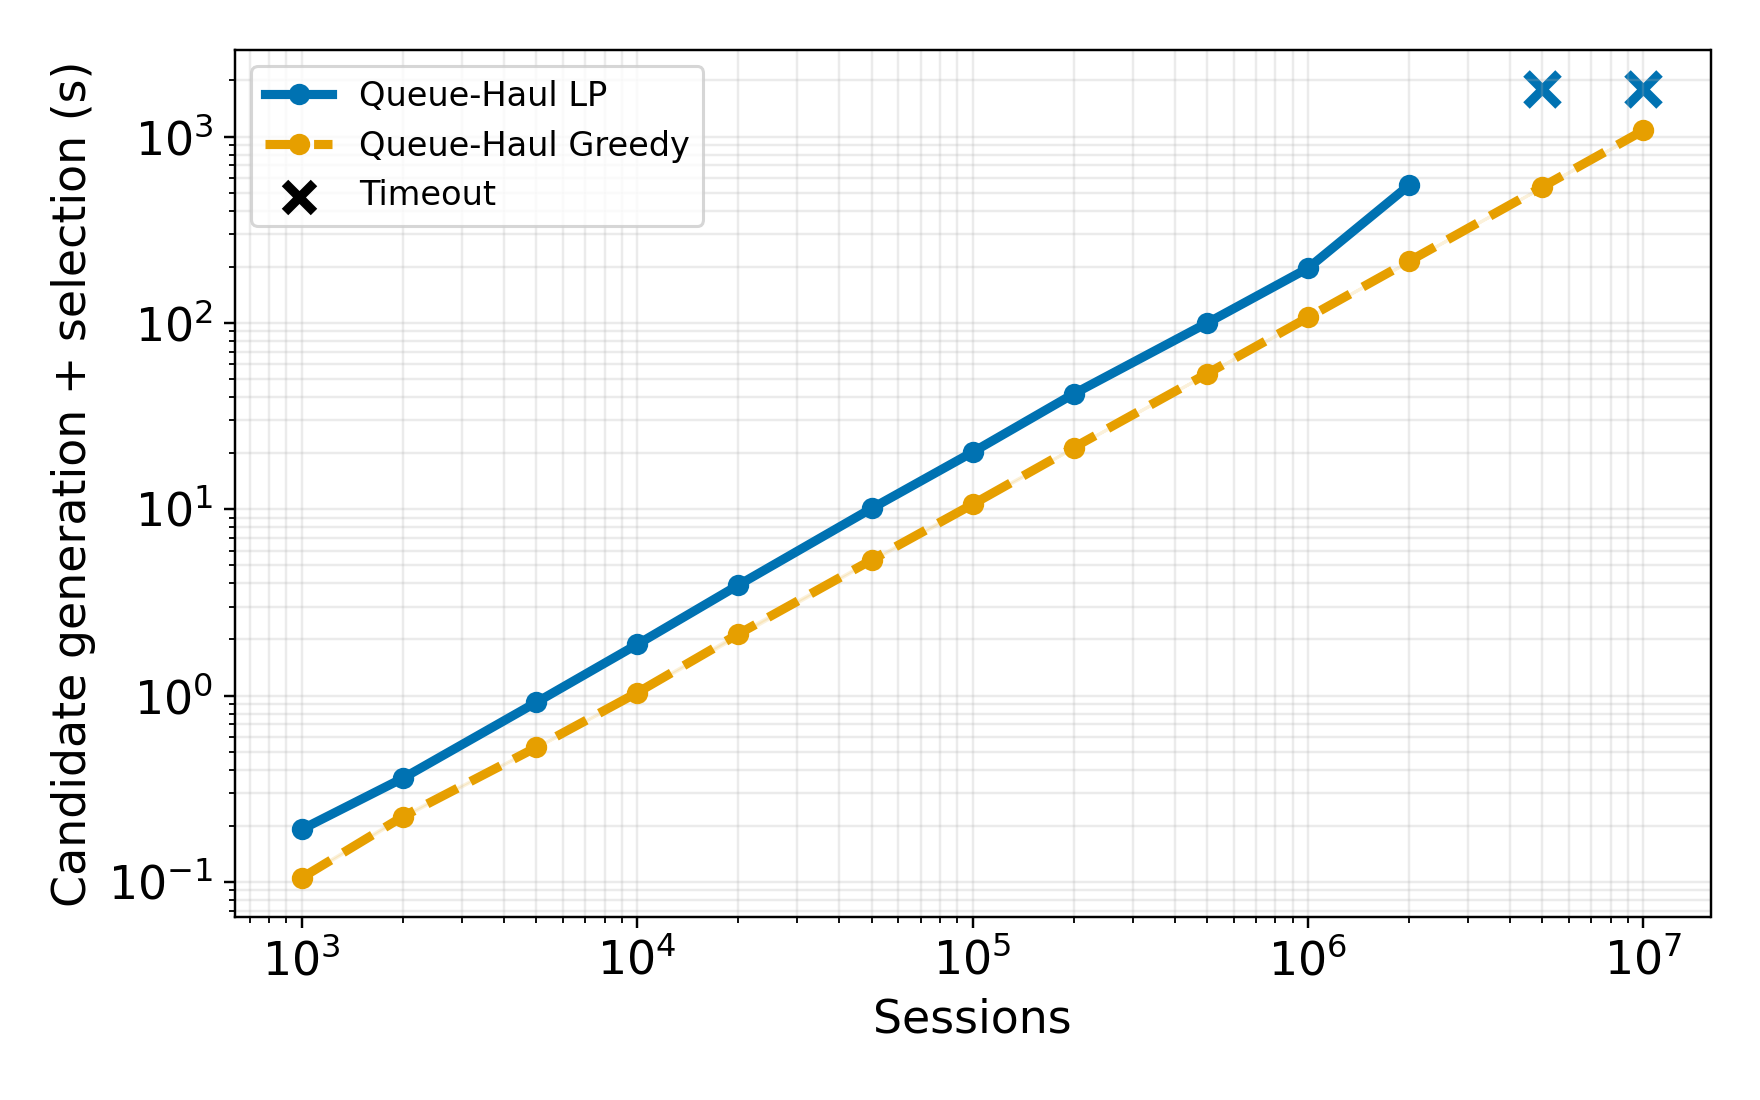
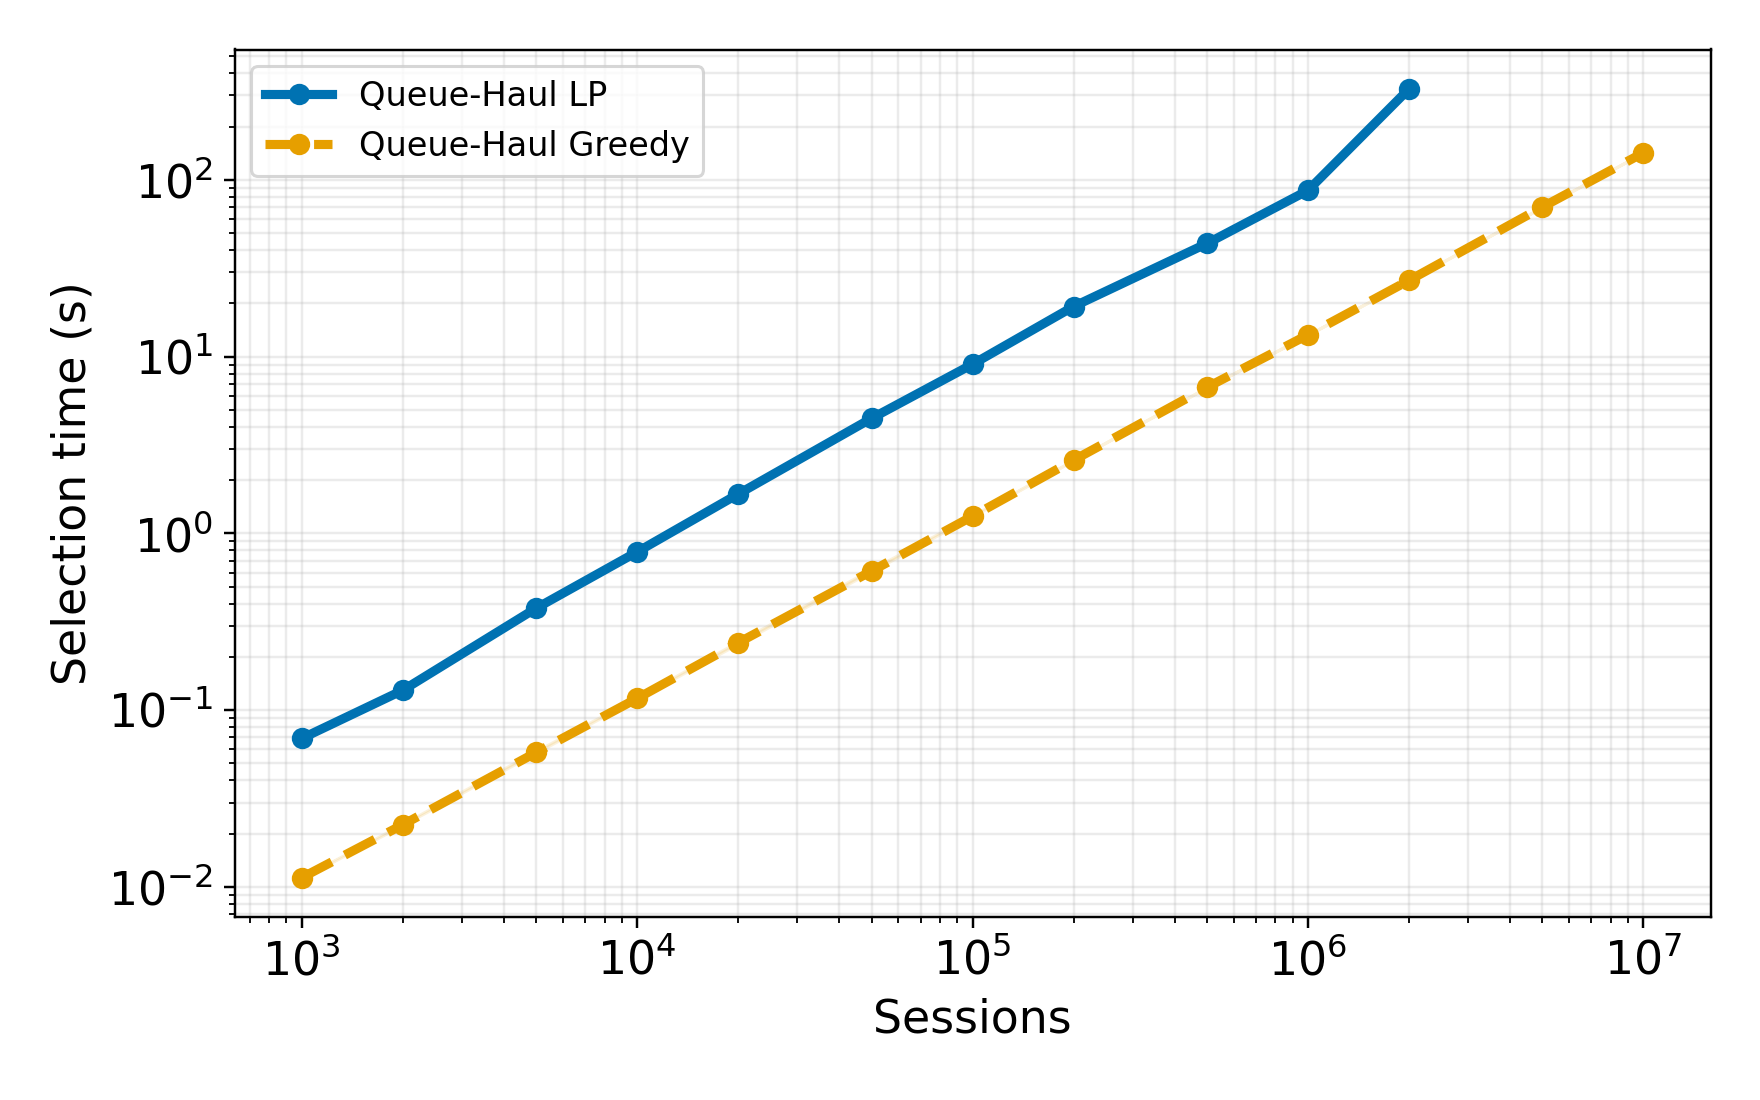
Plot planner selection scaling only

diff --git a/agent-migrate/queue-haul/planner_scaling_campaign.py b/agent-migrate/queue-haul/planner_scaling_campaign.py
@@ -304,6 +304,7 @@ def _identity(args) -> dict:
         "target_fraction_of_removable_power": TARGET_FRACTION,
         "lp_integral_recovery": False,
         "timed_region": "candidate generation plus selection; excludes packing and DES",
+        "plotted_metric": "selection_s for completed cells only",
     }
 
 
@@ -358,8 +359,9 @@ def plot(rows, output: Path) -> None:
     plot_style.apply()
     fig, axis = plt.subplots(figsize=plot_style.FIGSIZE)
     for solver, policy in (("lp", "queue_haul"), ("greedy", "greedy")):
-        ok = [row for row in rows if row["solver"] == solver and row["status"] == "ok"]
-        grouped = {sessions: [row["solve_s"] for row in ok
+        ok = [row for row in rows if row["solver"] == solver
+              and row["status"] == "ok"]
+        grouped = {sessions: [row["selection_s"] for row in ok
                               if row["sessions"] == sessions]
                    for sessions in sorted({row["sessions"] for row in ok})}
         style = plot_style.policy_style(policy)
@@ -371,29 +373,8 @@ def plot(rows, output: Path) -> None:
         if low != high:
             axis.fill_between(x, low, high, color=plot_style.POLICY_COLORS[policy],
                               alpha=.14)
-        for status, marker in plot_style.SCALING_OUTCOME_MARKERS.items():
-            failed = [row for row in rows if row["solver"] == solver
-                      and row["status"] == status]
-            if failed:
-                if status == "timeout":
-                    axis.scatter(
-                        [row["sessions"] for row in failed],
-                        [row["time_limit_s"] for row in failed], marker=marker,
-                        s=110, color=plot_style.POLICY_COLORS[policy],
-                    )
-                else:
-                    axis.scatter(
-                        [row["sessions"] for row in failed], [.97] * len(failed),
-                        transform=axis.get_xaxis_transform(), marker=marker,
-                        s=110, color=plot_style.POLICY_COLORS[policy], clip_on=False,
-                    )
-    present = {row["status"] for row in rows}
-    for status, name in plot_style.SCALING_OUTCOME_NAMES.items():
-        if status in present:
-            axis.scatter([], [], marker=plot_style.SCALING_OUTCOME_MARKERS[status],
-                         s=90, color="black", label=name)
     axis.set(xscale="log", yscale="log", xlabel="Sessions",
-             ylabel="Candidate generation + selection (s)")
+             ylabel="Selection time (s)")
     axis.grid(True, which="both", alpha=.25)
     axis.legend()
     fig.tight_layout()
@@ -435,7 +416,7 @@ def main() -> None:
     else:
         with args.input.open() as stream:
             rows = list(csv.DictReader(stream))
-        numeric = {"sessions", "solve_s", "time_limit_s"}
+        numeric = {"sessions", "selection_s"}
         plot([{key: float(value) if key in numeric and value else value
                for key, value in row.items()} for row in rows], args.output)
 

diff --git a/agent-migrate/queue-haul/tests/test_planner_scaling_campaign.py b/agent-migrate/queue-haul/tests/test_planner_scaling_campaign.py
@@ -22,16 +22,17 @@ def test_small_cells_are_paired_and_reach_the_target():
     assert "candidate_slots" not in greedy | lp
 
 
-def test_plot_writes_both_formats_with_censored_markers(tmp_path, monkeypatch):
+def test_plot_writes_selection_only_in_both_formats(tmp_path, monkeypatch):
     applied = []
     monkeypatch.setattr(plot_style, "apply", lambda: applied.append(True))
     rows = [
-        {"solver": "greedy", "sessions": 1_000, "status": "ok", "solve_s": .1},
-        {"solver": "greedy", "sessions": 10_000, "status": "ok", "solve_s": 1},
-        {"solver": "lp", "sessions": 1_000, "status": "ok", "solve_s": 1},
+        {"solver": "greedy", "sessions": 1_000, "status": "ok",
+         "selection_s": .1},
+        {"solver": "greedy", "sessions": 10_000, "status": "ok",
+         "selection_s": 1},
+        {"solver": "lp", "sessions": 1_000, "status": "ok", "selection_s": 1},
         {"solver": "lp", "sessions": 10_000, "status": "timeout",
          "time_limit_s": 10},
-        {"solver": "lp", "sessions": 100_000, "status": "oom"},
     ]
 
     scaling.plot(rows, tmp_path / "scaling")

diff --git a/agent-migrate/queue-haul/tests/test_plot_style.py b/agent-migrate/queue-haul/tests/test_plot_style.py
@@ -61,11 +61,6 @@ def test_power_validation_methods_have_unique_markers():
     assert len(set(plot_style.POWER_VALIDATION_MARKERS.values())) == 5
 
 
-def test_scaling_outcomes_have_distinct_canonical_markers():
-    assert set(plot_style.SCALING_OUTCOME_NAMES) == {"timeout", "oom"}
-    assert len(set(plot_style.SCALING_OUTCOME_MARKERS.values())) == 2
-
-
 def test_power_families_have_shared_names_colors_and_markers():
     assert set(plot_style.POWER_FAMILY_NAMES) == {"idle", "sessions"}
     assert set(plot_style.POWER_FAMILY_NAMES) == set(plot_style.POWER_FAMILY_COLORS) \

diff --git a/agent-migrate/queue-haul/plot_style.py b/agent-migrate/queue-haul/plot_style.py
@@ -235,10 +235,6 @@ POWER_VALIDATION_COLORS = dict(zip(POWER_VALIDATION_METHODS, (
 )))
 POWER_VALIDATION_MARKERS = dict(zip(
     POWER_VALIDATION_METHODS, ("o", "s", "^", "D", "x")))
-SCALING_OUTCOME_NAMES = {
-    "timeout": "Timeout", "oom": "OOM / memory limit",
-}
-SCALING_OUTCOME_MARKERS = {"timeout": "x", "oom": "^"}
 
 
 def apply():

diff --git a/agent-migrate/queue-haul/README.md b/agent-migrate/queue-haul/README.md
@@ -1018,18 +1018,21 @@ constraints. Noisy bootstrap route draws
 are minimally projected to preserve natural bandwidth at or above the measured
 40%-route condition, and the projection rate is recorded.
 
-The same command writes `action_choice_oat.pdf`. Two paired one-at-a-time sweeps
-use 20 levels and 50 common workload/timing/power draws per level. The bandwidth
-sweep fixes per-destination prefill headroom at the midpoint of the measured
-7,680-token range; the prefill sweep fixes the shared route cap at the midpoint
-of the 1-Gbit/s-to-natural range. Stacked bands show Replay, KV-transfer, and
-not-moved session shares, while the black line shows plan-level attainment of
-the 67% source-power target by 30 seconds. Regional pipeline timing is
-interpolated between the measured endpoint fits, so the timing holdout remains
-hardware checked while the action distributions are modeled sensitivities.
+The same command writes `action_choice_oat_bandwidth.pdf`. Its 20-level
+bandwidth sweep uses 1,000 seeded packs of eight OpenHands sessions. Each pack
+samples templates without replacement and then samples one supported turn per
+template; that same pack is planned at every bandwidth. Calibration, source
+load (0.4), and per-destination prefill headroom are fixed, and the planner must
+meet the full 100% source-power target. Stacked bands show mean Replay,
+KV-transfer, and not-moved session shares; faint bands are whole-pack bootstrap
+95% intervals for the mean boundaries. `action_choice_oat_packs.csv` records
+every sampled pack and plan. Regional pipeline timing is interpolated between
+the measured endpoint fits, so these distributions are modeled workload
+sensitivities rather than hardware action observations.
 
 ```bash
 uv run python queue-haul/workload_adaptation_campaign.py
+uv run python queue-haul/workload_adaptation_campaign.py --oat-only
 ```
 
 The resulting 1,000 draws are a modeled calibration/workload sensitivity, not
@@ -1791,13 +1794,14 @@ uv run python planner_scaling_campaign.py run
 ```
 
 The pinned 24 GiB campaign in `outputs/planner-scaling-greedy-vs-lp/` records
-greedy/LP medians of 10.62/20.23 s at 100K and 106.90/196.47 s at 1M. At 2M,
-greedy takes 214.12 s versus LP's 546.80 s. Greedy remains nearly linear and
-finishes 5M in 537.21 s and 10M in 1,078.48 s; LP reaches the declared 1,800 s
-timeout at both sizes. Neither solver reaches the 24 GiB memory limit, so these
-points are timeouts, not OOMs. At 10M, greedy spends 936.30 s generating compact
-inputs and 142.14 s in native selection; dense Python input construction remains
-the dominant optimization target.
+both production-front-end and pure-selection time; its figure plots selection
+only. Greedy/LP selection medians are 1.25/9.05 s at 100K, 13.27/87.08 s at 1M,
+and 26.97/326.38 s at 2M. Greedy selection remains nearly linear at 70.14 s for
+5M and 142.14 s for 10M. LP's combined candidate-generation and selection arm
+reaches the declared 1,800 s timeout at both larger sizes, so no selection-only
+LP value or timeout marker is plotted there. No monitored 24 GiB breach was
+classified. At 10M, greedy also spends 936.30 s generating compact inputs, which
+remains the dominant optimization target outside the plotted selection step.
 
 `planner_quality.py` pairs full greedy and shipped LP plans over workload,
 fleet-size, deadline, destination-scarcity, seed, and target grids. It checks
